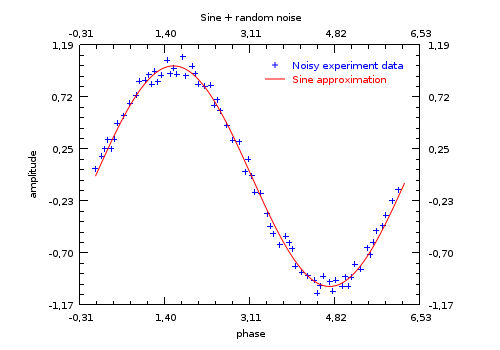
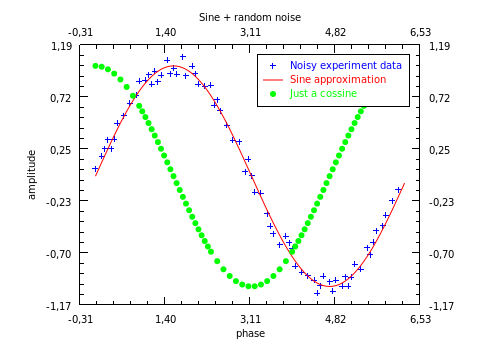
work on legend

diff --git a/slope/xyitem.c b/slope/xyitem.c
@@ -333,20 +333,23 @@ void __slope_xyitem_draw_thumb (slope_item_t *item,
     
     switch (self->scatter) {
         case SLOPE_LINE:
-            cairo_move_to(cr, pos->x - 10.0, pos->y - 4.0);
-            cairo_line_to(cr, pos->x + 10.0, pos->y - 4.0);
-            cairo_move_to(cr, pos->x + 17.0, pos->y);
-            cairo_show_text(cr, item->name);
+            cairo_move_to(cr, pos->x - 10.0, pos->y - 3.0);
+            cairo_line_to(cr, pos->x + 10.0, pos->y - 3.0);
             break;
+        case SLOPE_CIRCLES:
+            cairo_move_to(cr, pos->x + SYMBRAD, pos->y - SYMBRAD);
+            cairo_arc(cr, pos->x, pos->y - SYMBRAD, SYMBRAD, 0.0, 6.283185);
+            cairo_fill(cr);
         case SLOPE_PLUSSES:
-            cairo_move_to(cr, pos->x - SYMBRAD, pos->y - 4.0);
-            cairo_line_to(cr, pos->x + SYMBRAD, pos->y - 4.0);
-            cairo_move_to(cr, pos->x , pos->y - SYMBRAD - 4.0);
-            cairo_line_to(cr, pos->x , pos->y + SYMBRAD - 4.0);
-            cairo_move_to(cr, pos->x + 17.0, pos->y);
-            cairo_show_text(cr, item->name);
+            cairo_set_antialias(cr, CAIRO_ANTIALIAS_NONE);
+            cairo_move_to(cr, pos->x - SYMBRAD, pos->y - SYMBRAD);
+            cairo_line_to(cr, pos->x + SYMBRAD, pos->y - SYMBRAD);
+            cairo_move_to(cr, pos->x , pos->y - SYMBRAD - SYMBRAD);
+            cairo_line_to(cr, pos->x , pos->y + SYMBRAD - SYMBRAD);
             break;
     }
+    cairo_move_to(cr, pos->x + 17.0, pos->y);
+    cairo_show_text(cr, item->name);
     cairo_stroke(cr);
 }
 

diff --git a/test.c b/test.c
@@ -16,18 +16,20 @@ int main(int argc, char *argv[])
 {
     /* generate some item */
     const double step = 2.0*M_PI/N;
-    double x[N], y1[N], y2[N];
+    double x[N], y1[N], y2[N], y3[N];
     int k;
     for (k=0; k<N; k++) {
         x[k] = k*step;
         y1[k] = sin(x[k]);
         y2[k] = y1[k] + 0.2*((double)rand())/RAND_MAX - 0.1;
+        y3[k] = cos(x[k]);
     }
 
     /* this is all you need to know to crete a chart */
     slope_figure_t *chart = slope_chart_create("Sine + random noise", "phase", "amplitude");
     slope_chart_add_plot(chart, x, y2, N, "Noisy experiment data", "l+");
     slope_chart_add_plot(chart, x, y1, N, "Sine approximation", "r-");
+    slope_chart_add_plot(chart, x, y3, N, "Just a cossine", "g*");
 
     #if SLOPE_GTK
     /* put the scene in a gtk widget */

diff --git a/slope/legend.c b/slope/legend.c
@@ -53,7 +53,7 @@ slope_item_t* slope_legend_create ()
     legend->position = SLOPE_LEGEND_TOPRIGHT;
 
     slope_color_set_name(&legend->fill_color, SLOPE_WHITE);
-    slope_color_set_name(&legend->stroke_color, SLOPE_WHITE);
+    slope_color_set_name(&legend->stroke_color, SLOPE_BLACK);
     
     return parent;
 }
